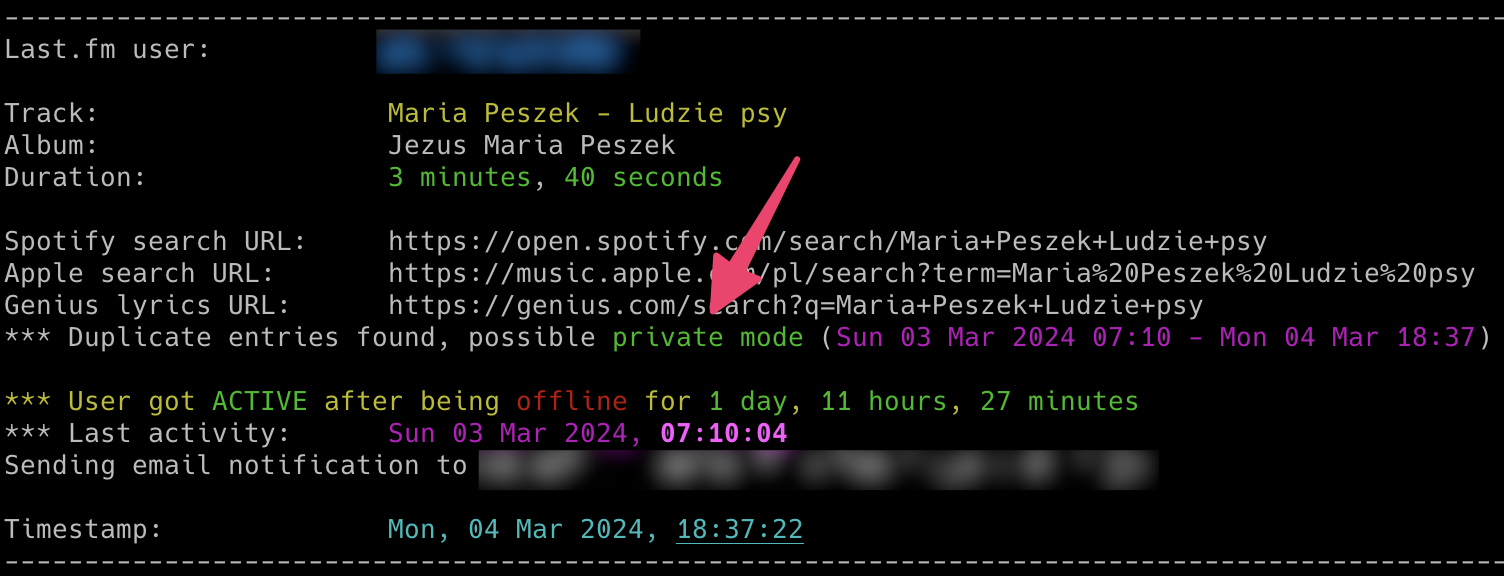
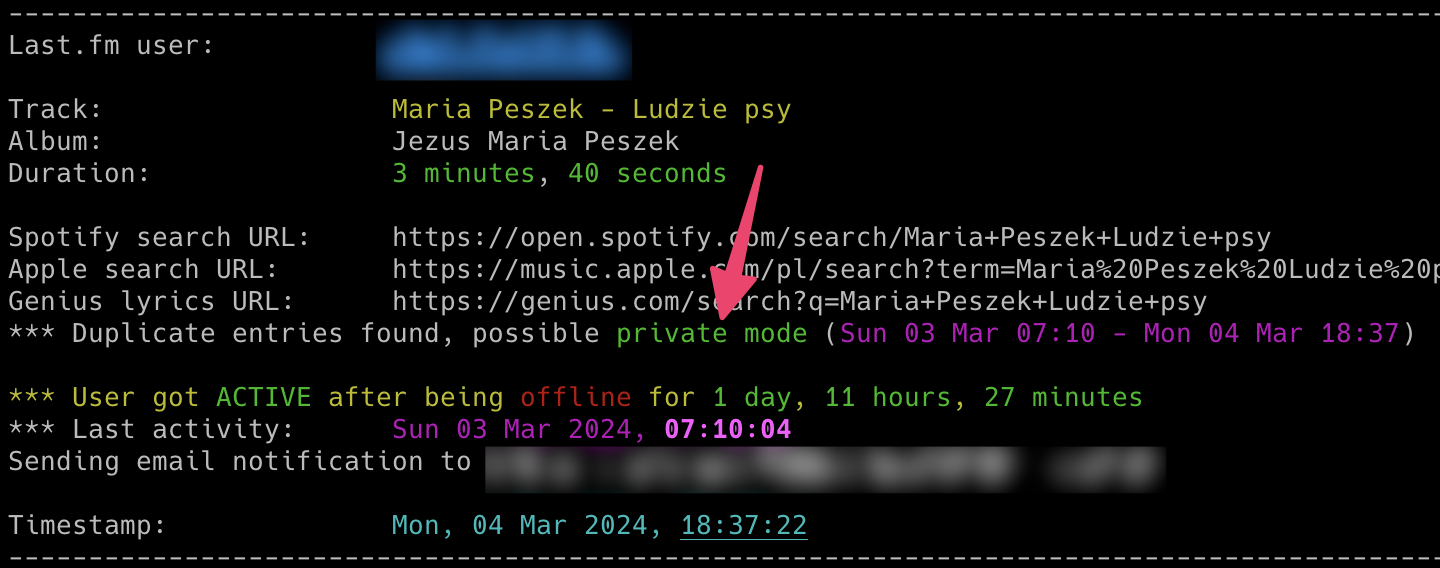
Date formatting changed when private mode detected

diff --git a/lastfm_monitor.py b/lastfm_monitor.py
@@ -953,9 +953,9 @@ def lastfm_monitor_user(user,network,username,tracks,error_notification,csv_file
                         except Exception as e:
                             print("* Error -", e)
                         if duplicate_entries:
-                            private_mode="\n\nDuplicate entries found, possible private mode between " + get_short_date_from_ts(lf_active_ts_last_old) + " and " + get_short_date_from_ts(lf_track_ts_start)
-                            private_mode_html="<br><br>Duplicate entries found, possible <b>private mode</b> between <b>" + get_short_date_from_ts(lf_active_ts_last_old) + "</b> and <b>" + get_short_date_from_ts(lf_track_ts_start) + "</b>"                            
-                            print("\n*** Duplicate entries found, possible PRIVATE MODE between " + get_short_date_from_ts(lf_active_ts_last_old) + " and " + get_short_date_from_ts(lf_track_ts_start))
+                            private_mode="\n\nDuplicate entries found, possible private mode (" + get_range_of_dates_from_tss(lf_active_ts_last_old,lf_track_ts_start,short=True) + ")"
+                            private_mode_html="<br><br>Duplicate entries found, possible <b>private mode</b> (<b>" + get_range_of_dates_from_tss(lf_active_ts_last_old,lf_track_ts_start,short=True) + "</b>)"                            
+                            print("\n*** Duplicate entries found, possible PRIVATE MODE (" + get_range_of_dates_from_tss(lf_active_ts_last_old,lf_track_ts_start,short=True) + ")")
 
                         print("\n*** User got ACTIVE after being offline for",calculate_timespan(int(lf_track_ts_start),int(lf_active_ts_last)),last_track_start_changed)
                         print("*** Last activity:\t" + get_date_from_ts(lf_active_ts_last))
